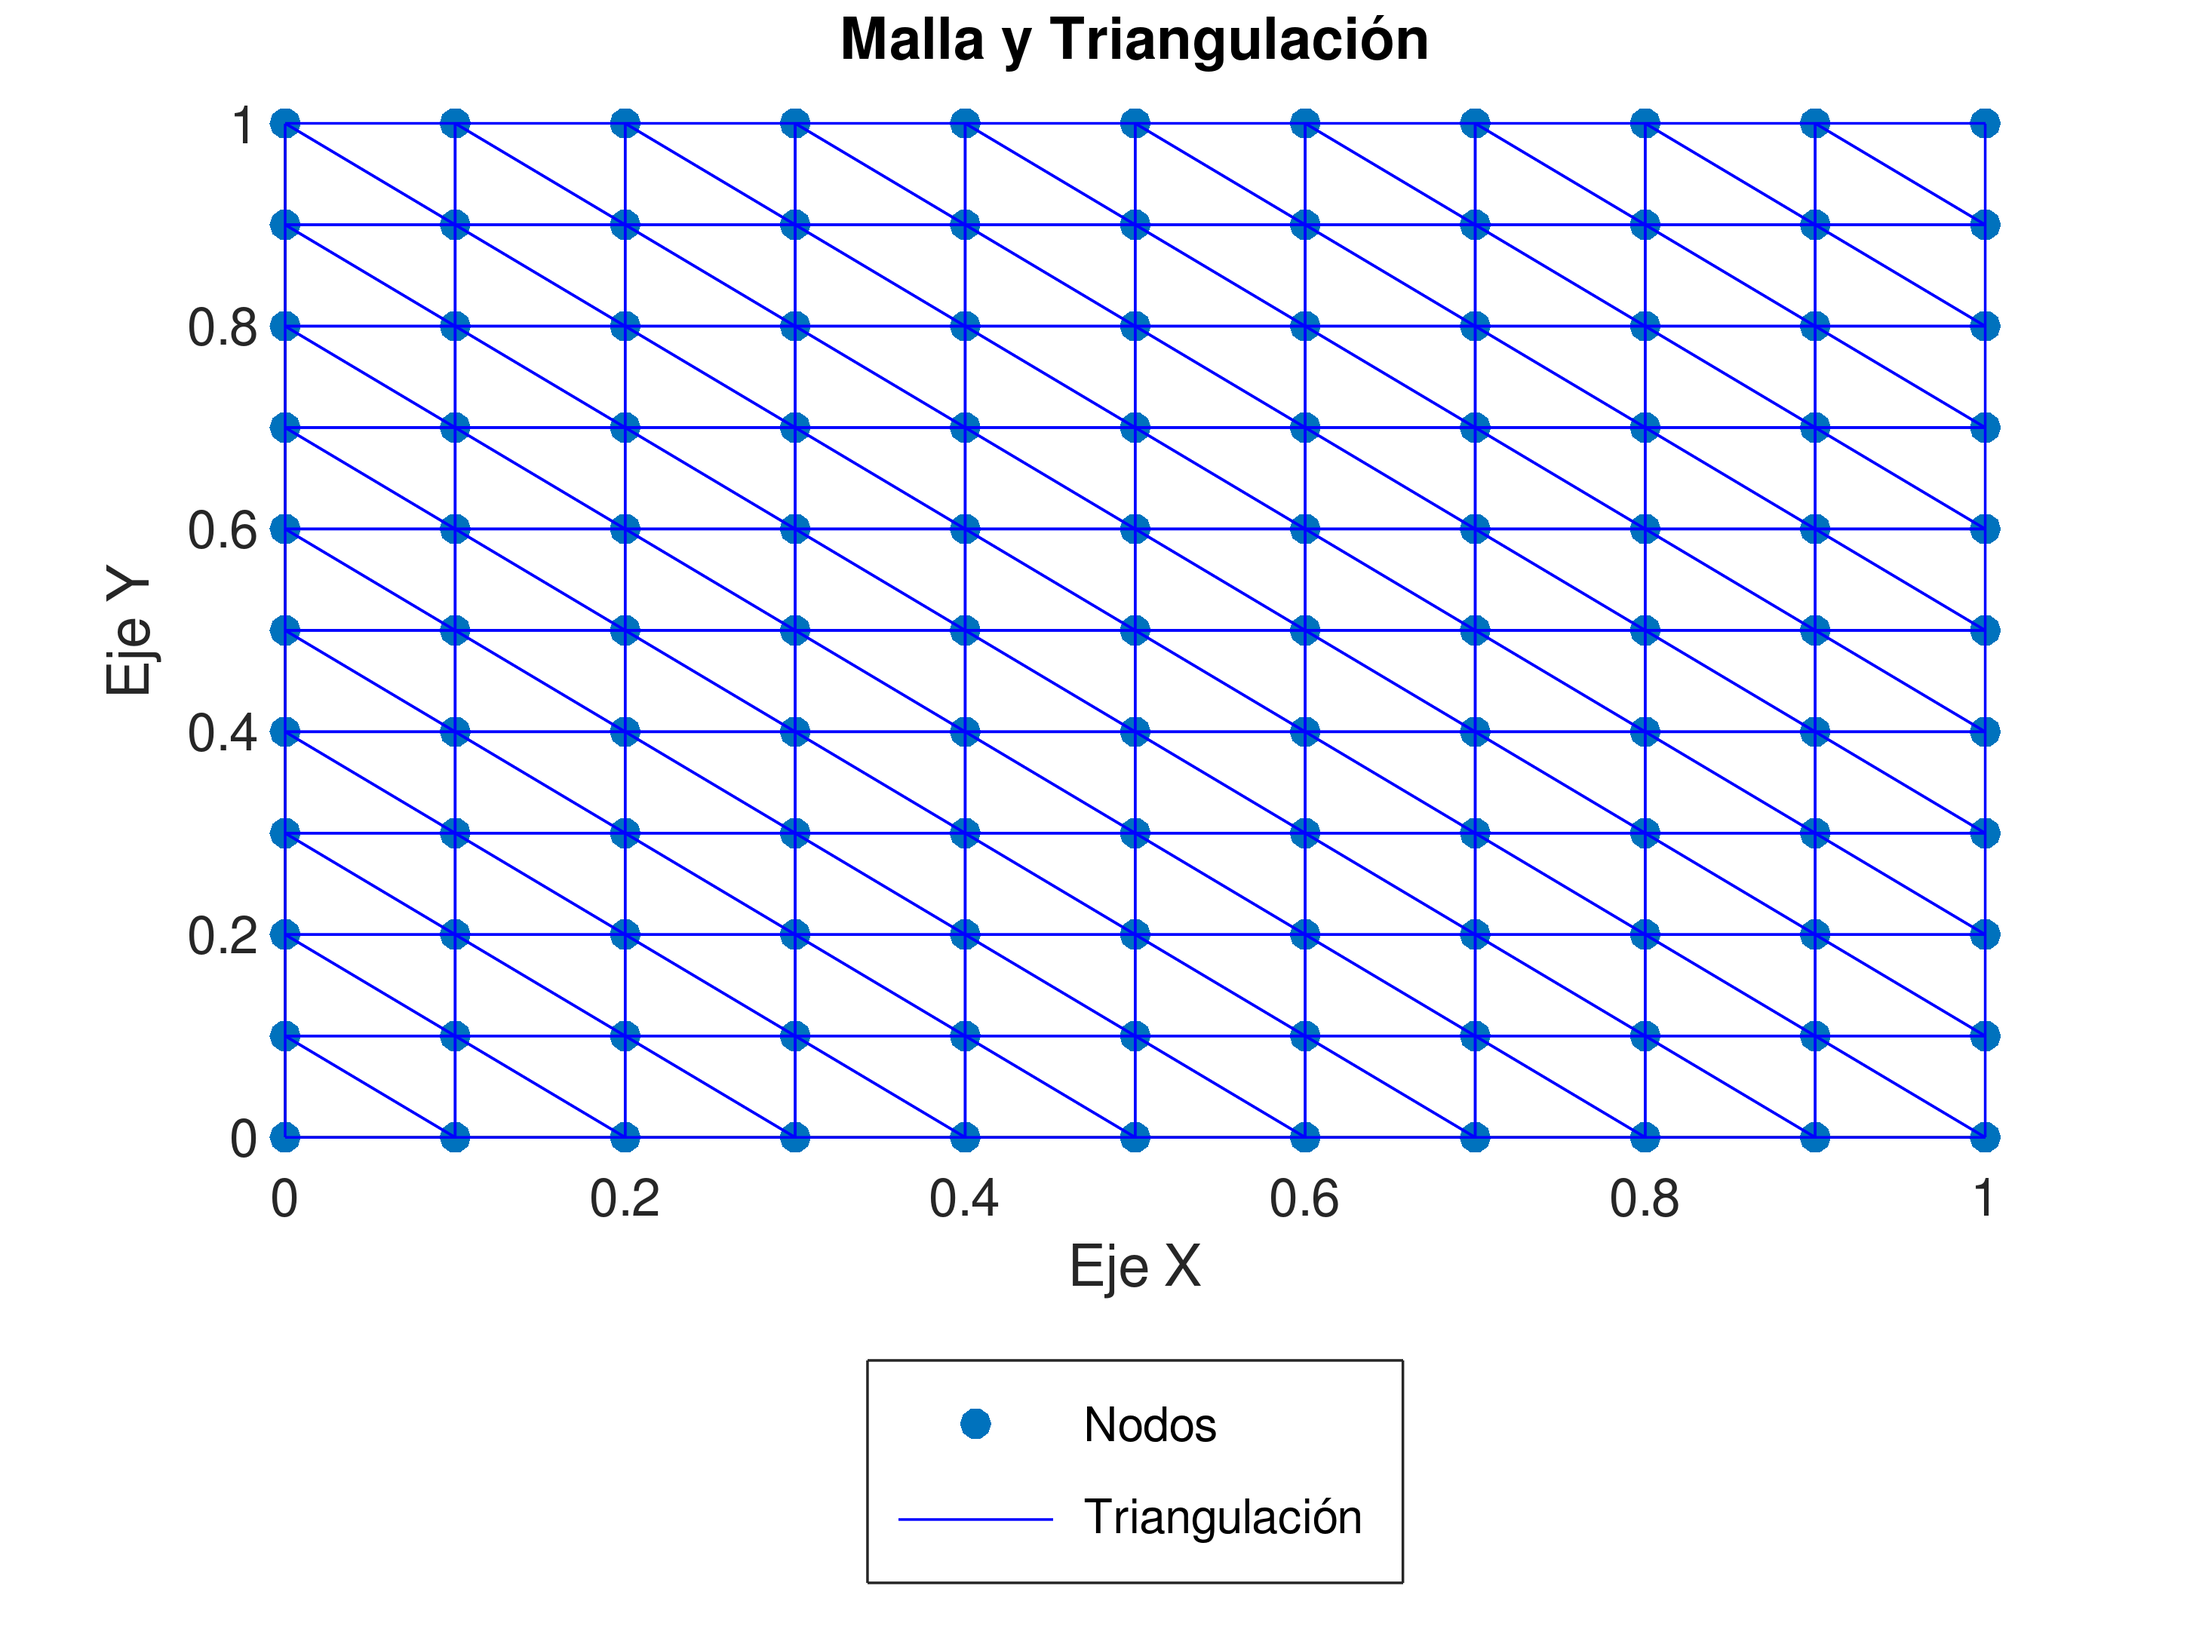
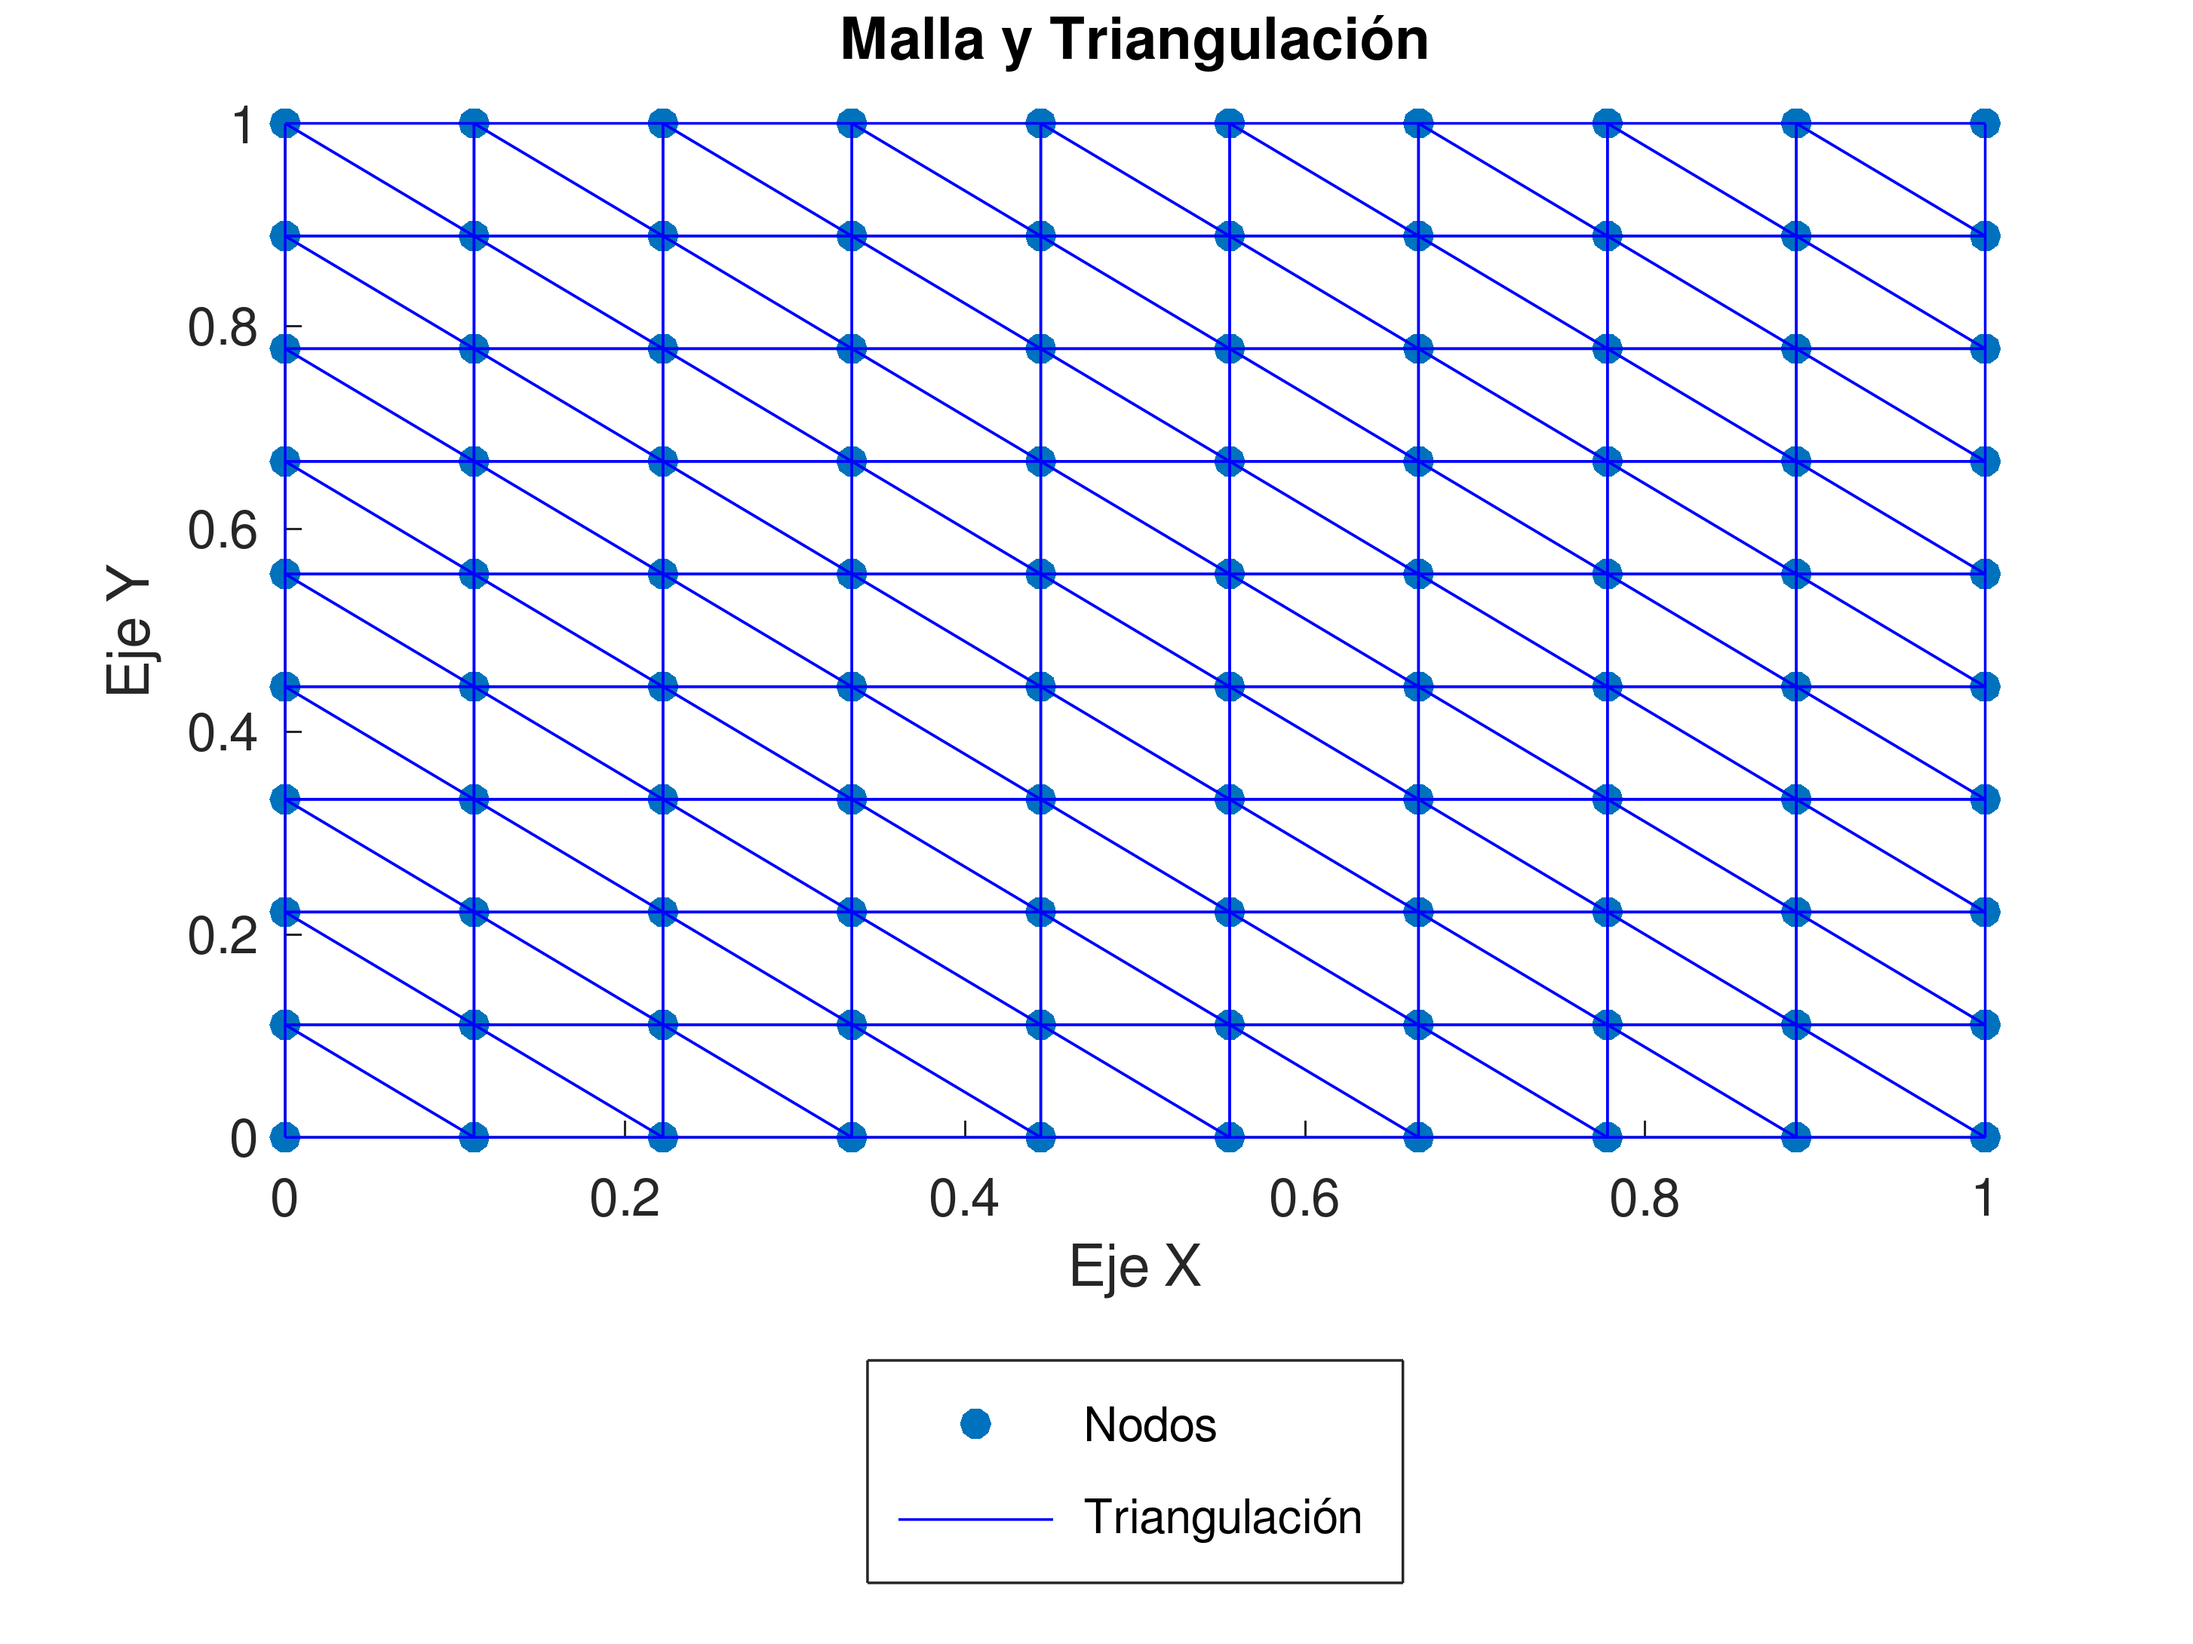
Cambios con Omar

diff --git a/EJ2_MEF_V2.m b/EJ2_MEF_V2.m
@@ -17,7 +17,7 @@
 %
 % ---------------------------------------------
 
-function v = EJ2_MEF_V2(x=1,y=1,m=11,n=11, c1=0,c2=1,c3=0,c4=0, tr=1, dat=0, gr=1);
+function v = EJ2_MEF_V2(x=1,y=1,m=4,n=4, c1=0,c2=1,c3=0,c4=0, tr=1, dat=1, gr=1);
 
  mn = m*n; %Cantidad total de nodos
 
@@ -28,8 +28,8 @@ function v = EJ2_MEF_V2(x=1,y=1,m=11,n=11, c1=0,c2=1,c3=0,c4=0, tr=1, dat=0, gr=
 
  x_aux = x;          y_aux = y;
 
- %T = generarTriangulacion(m,n);
  T = generarTriangulacionCompleta(m,n);
+ %T = triangulacion(m,n);
  N = generarNodos(n,m,1);
 
 % --------- GUARDAR DATOS EN ARCHIVO DE TEXTO ------------
@@ -132,25 +132,30 @@ end
          A_elem = [a11 a12 a13; a21 a22 a23; a31 a32 a33];
 
      % Ensamblaje en matriz global
-     A([T(j,1) T(j,2) T(j,3)],[T(j,1) T(j,2) T(j,3)]) = A([T(j,1), T(j,2) T(j,3)],[T(j,1) T(j,2) T(j,3)]) + A_elem;
+     A([T(j,1) T(j,2) T(j,3)],[T(j,1) T(j,2) T(j,3)]) =A([T(j,1), T(j,2) T(j,3)],[T(j,1) T(j,2) T(j,3)]) + A_elem;
+
+
 
 endfor;
 
 % ------------- CONDICIONES DE BORDE ---------------------
 
 for i=1:m % puntos de frontera inferior y superior
-     j=1; A(i+(j-1)*m,i+(j-1)*m)=1; b(i+(j-1)*m)=c1;
-     j=n; A(i+(j-1)*m,i+(j-1)*m)=1; b(i+(j-1)*m)=c2;
+     j=1; A(i+(j-1)*m,:)=0; A(i+(j-1)*m,i+(j-1)*m)=1; b(i+(j-1)*m)=c1;
+     j=n; A(i+(j-1)*m,:)=0; A(i+(j-1)*m,i+(j-1)*m)=1; b(i+(j-1)*m)=c2; % 1
  endfor;
 
  for j=2:n-1 % puntos de frontera iquierda y derecha
-     i=1; A(i+(j-1)*m,i+(j-1)*m)=1; b(i+(j-1)*m)=c3;
-     i=m; A(i+(j-1)*m,i+(j-1)*m)=1; b(i+(j-1)*m)=c4;
+     i=1; A(i+(j-1)*m,:)=0; A(i+(j-1)*m,i+(j-1)*m)=1; b(i+(j-1)*m)=c3;
+     i=m; A(i+(j-1)*m,:)=0; A(i+(j-1)*m,i+(j-1)*m)=1; b(i+(j-1)*m)=c4;
  endfor;
 
 
 % ------------- SOLUCIÓN Y GRÁFICO  ----------------------
 
+ A
+ b
+ max(A-transpose(A))
  v = A\b;
  if gr==1
    graficarMalla(x_aux,y_aux,v'); %Presentacion del resultado

diff --git a/EJ2_MEF.m b/EJ2_MEF.m
@@ -16,7 +16,7 @@
 %
 % ---------------------------------------------
 
-function v = EJ2_MEF(x=1,y=1,m=10,n=10, c1=0,c2=1,c3=0,c4=0, tr=0, dat=0, gr=0);
+function v = EJ2_MEF(x=1,y=1,m=10,n=10, c1=0,c2=1,c3=0,c4=0, tr=1, dat=0, gr=1);
 
  mn = m*n; %Cantidad total de nodos
 
@@ -146,6 +146,7 @@ for i=1:m % puntos de frontera inferior y superior
  endfor;
 
  v = A\b;
+ A
 
  if gr==1
   graficarMalla(x_aux,y_aux,v'); %Presentacion del resultado

diff --git a/jacobianoTriangulo.m b/jacobianoTriangulo.m
@@ -19,7 +19,6 @@ function j=jacobianoTriangulo(p1,p2,p3)
   areaT = (1/2)*determinante;
 
   % jacobiano = area T / area T*
-  j = areaT / areaTR;
-  %j = areaTR / areaT; % CREO QUE ESTÁ MAL
+  j = abs(areaT / areaTR);
 
   endfunction

diff --git a/pruebaMEF.m b/pruebaMEF.m
@@ -10,7 +10,7 @@
 %
 % ---------------------------------------------
 
-function v = pruebaMEF(graficar=0);
+function v = pruebaMEF(graficar=1);
 
  [N, T] = obtenerDatos('datos.txt'); % Obtenemos triangulación y nodos
 
